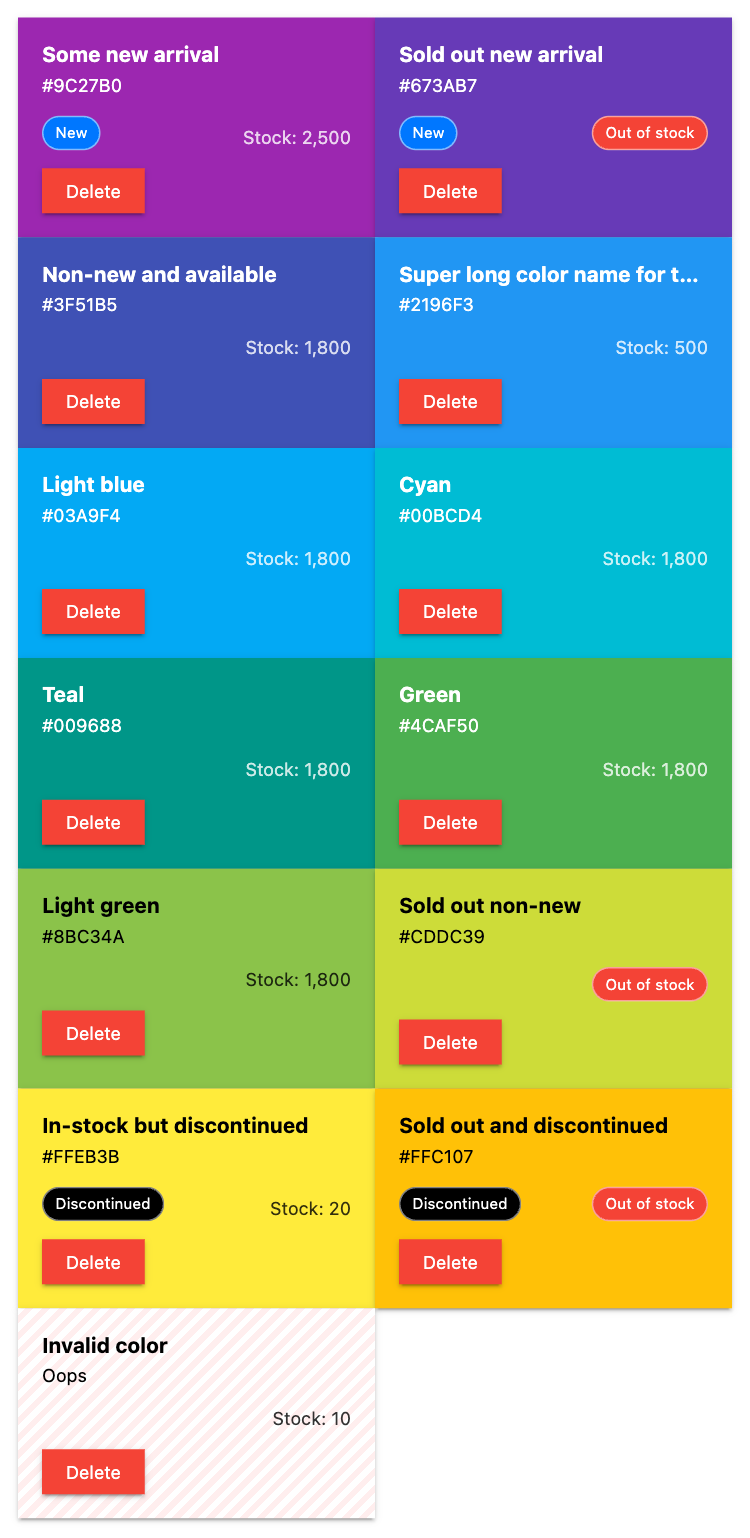
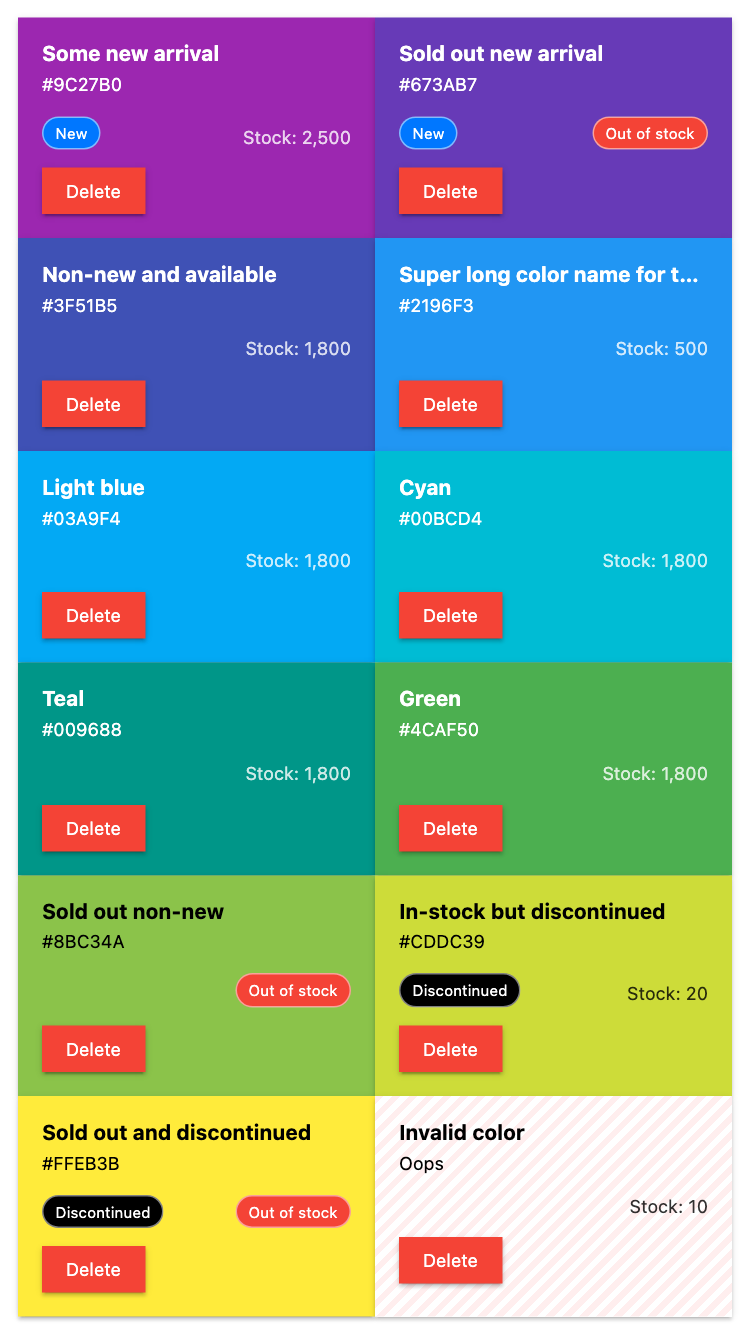
update demo app
- removes a color
- updates pixaton outputDir

diff --git a/demo-app-vite/pixaton-tests/_setup.js b/demo-app-vite/pixaton-tests/_setup.js
@@ -18,7 +18,7 @@ export const mockaton = new Commander(MOCKATON_ADDR)
 const testsDir = import.meta.dirname
 
 removeDiffsAndCandidates(testsDir)
-const browser = await launch({ headless: true })
+const browser = await launch({ headless: 'shell' })
 const page = await browser.newPage()
 
 after(() => {
@@ -27,6 +27,7 @@ after(() => {
 })
 
 export function testPixels(testFileName, qaId, options = {}) {
+	options.outputDir = testsDir
 	options.beforeSuite = async () => await mockaton.reset()
 	options.viewports ??= [{
 		width: 500,

diff --git a/demo-app-vite/src/Instructions.jsx b/demo-app-vite/src/Instructions.jsx
@@ -6,7 +6,7 @@ export function Instructions() {
 		<section className={CSS.Instructions}>
 			<h2>Mockaton Demo App</h2>
 
-			<p>Here are a couple of things you can play with to get started with Mockaton’s dashboard:</p>
+			<p>Here are a couple of things you can play with to get started with the dashboard:</p>
 			<ul>
 				<li>Pick the <strong>(empty)</strong> mock variant and refresh this page</li>
 				<li>Click the 🕓 <strong>Delay</strong> response checkbox (expect a Loading… indicator)</li>

diff --git a/demo-app-vite/mocks/api/colors(assorted)(default).GET.200.ts b/demo-app-vite/mocks/api/colors(assorted)(default).GET.200.ts
@@ -51,24 +51,19 @@ export default colors = [
 		stock: 1800
 	},
 	{
-		name: 'Light green',
-		color: '#8BC34A',
-		stock: 1800
-	},
-	{
 		name: 'Sold out non-new',
-		color: '#CDDC39',
+		color: '#8BC34A',
 		stock: 0
 	},
 	{
 		name: 'In-stock but discontinued',
-		color: '#FFEB3B',
+		color: '#CDDC39',
 		stock: 20,
 		discontinued: true,
 	},
 	{
 		name: 'Sold out and discontinued',
-		color: '#FFC107',
+		color: '#FFEB3B',
 		stock: 0,
 		discontinued: true
 	},
